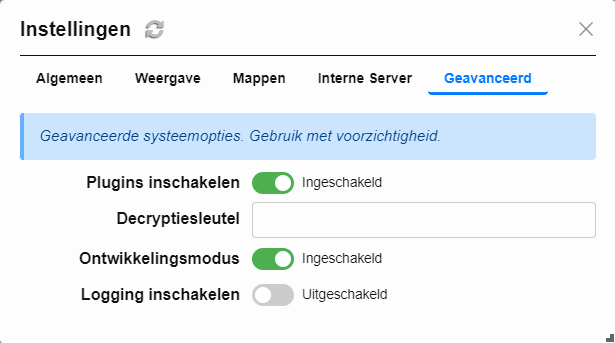
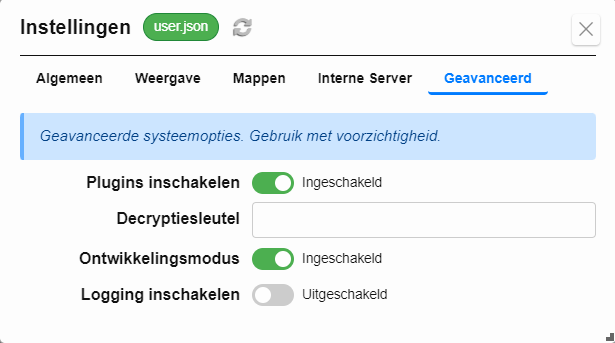
better UX for settings

Changed region(s): [[0.0309, 0.0292, 0.4325, 0.1166], [0.9886, 0.9913, 1.0, 1.0], [0.0, 0.9913, 0.0309, 1.0]]

diff --git a/assets/pilled-badge.css b/assets/pilled-badge.css
@@ -1,0 +1,114 @@
+/* Base pill – uses per-variant custom props */
+.pilled-badge {
+    display: inline-flex;
+    align-items: center;
+    gap: .35rem;
+    font-size: .85em;
+    line-height: 1.9;
+    padding: 0 .6rem;
+    border: 1px solid var(--pill-border, var(--input-border-color, #ccc));
+    border-radius: 9999px;
+    color: var(--pill-fg, var(--muted-fg, #666));
+    background: var(--pill-bg, var(--badge-bg, #f6f6f6));
+    max-width: 28em;
+    min-width: 0;
+    overflow: hidden;
+    text-overflow: ellipsis;
+    white-space: nowrap;
+}
+
+/* sizes */
+.pilled-badge--sm {
+    font-size: .75em;
+    line-height: 1.6;
+    padding: 0 .5rem;
+}
+
+.pilled-badge--lg {
+    font-size: .95em;
+    line-height: 2.0;
+    padding: 0 .8rem;
+}
+
+/* behavior */
+.pilled-badge--clickable {
+    cursor: pointer;
+    transition: box-shadow .15s, background-color .15s, border-color .15s;
+}
+
+.pilled-badge--clickable:hover {
+    box-shadow: var(--generic-shadow, 0 1px 2px rgba(0, 0, 0, .25));
+    background: var(--hover-bg, #f0f0f0);
+}
+
+/* ------- color variants (SOFT) ------- */
+.pilled-badge--neutral {
+    --pill-bg: var(--badge-bg, #f6f6f6);
+    --pill-border: var(--input-border-color, #ccc);
+    --pill-fg: var(--muted-fg, #666);
+}
+
+.pilled-badge--info {
+    --pill-bg: var(--generic-bg-info);
+    --pill-border: var(--generic-border-info);
+    --pill-fg: var(--generic-fg-info);
+}
+
+.pilled-badge--success {
+    --pill-bg: var(--generic-bg-success);
+    --pill-border: var(--generic-border-success);
+    --pill-fg: var(--generic-fg-success);
+}
+
+.pilled-badge--warn {
+    --pill-bg: var(--generic-bg-warn);
+    --pill-border: var(--generic-border-warn);
+    --pill-fg: var(--generic-fg-warn);
+}
+
+.pilled-badge--error {
+    --pill-bg: var(--generic-bg-error);
+    --pill-border: var(--generic-border-error);
+    --pill-fg: var(--generic-fg-error);
+}
+
+/* ------- outline modifier (pairs with a color) ------- */
+.pilled-badge--outline {
+    --pill-bg: transparent;
+}
+
+/* Example pairing:
+   <div class="pilled-badge pilled-badge--info pilled-badge--outline">info</div>
+   will render a blue outline with transparent bg and blue text. */
+
+/* ------- solid modifier (high-contrast fill) ------- */
+.pilled-badge--solid.pilled-badge--info {
+    --pill-bg: var(--generic-border-info);
+    --pill-fg: #fff;
+}
+
+.pilled-badge--solid.pilled-badge--success {
+    --pill-bg: var(--generic-border-success);
+    --pill-fg: #fff;
+}
+
+.pilled-badge--solid.pilled-badge--warn {
+    --pill-bg: var(--generic-border-warn);
+    --pill-fg: #000;
+}
+
+.pilled-badge--solid.pilled-badge--error {
+    --pill-bg: var(--generic-border-error);
+    --pill-fg: #fff;
+}
+
+/* optional dot */
+.pilled-badge--dot::before {
+    content: "";
+    width: .5em;
+    height: .5em;
+    border-radius: 50%;
+    background: currentColor;
+    opacity: .75;
+    flex: 0 0 auto;
+}

diff --git a/modules/modalSetup.js b/modules/modalSetup.js
@@ -60,6 +60,19 @@ export function setupProfileModal() {
 }
 
 export function setupSettingsModal() {
+  function refreshProfileBadge() {
+    const el = document.getElementById("current-profile");
+    if (!el) return;
+
+    EventBus.emit("config:profile:current", {
+      callback: (filename) => {
+        const label = filename || "user.json";
+        el.textContent = label;
+        el.title = label;
+      },
+    });
+  }
+
   const modal = setupModal("settings-modal", {
     closeBtn: "settings-close",
     escToClose: true,
@@ -99,6 +112,8 @@ export function setupSettingsModal() {
           });
           injectButton.appendChild(btn);
         }
+
+        refreshProfileBadge();
 
         const ok = await renderSettings();
         if (!ok) {

diff --git a/assets/dark-theme.css b/assets/dark-theme.css
@@ -8,6 +8,8 @@
   --input-icon-bg: #3f3f3f;
   --accent-color: #4dabf7;
   --hover-bg: #2a2a2a;
+  --badge-bg: #2a2a2a;
+  --muted-fg: #bbb;
 
   /* ───── Range Slider ───── */
   --range-track-bg: #bdbdbd;
@@ -29,7 +31,8 @@
   --status-error-color: #ff6b6b;
 
   /* ───── Generic Shadows ───── */
-  --generic-box-shadow: 0 2px 4px rgba(255, 255, 255, 0.1) --generic-shadow: 0 1px 2px rgba(255, 255, 255, 0.15);
+  --generic-box-shadow: 0 2px 4px rgba(255, 255, 255, 0.1);
+  --generic-shadow: 0 1px 2px rgba(255, 255, 255, 0.15);
   --generic-shadow-hover: 0 2px 4px rgba(255, 255, 255, 0.25);
   --generic-shadow-active: inset 0 1px 2px rgba(255, 255, 255, 0.3);
 

diff --git a/index.html b/index.html
@@ -18,6 +18,7 @@
 
     <!-- Core Styles -->
     <link rel="stylesheet" href="assets/layout.css" />
+    <link rel="stylesheet" href="assets/pilled-badge.css" />
     <link rel="stylesheet" href="assets/switch.css" />
     <link rel="stylesheet" href="assets/tabs.css" />
     <link rel="stylesheet" href="assets/toast.css" />
@@ -136,6 +137,10 @@
       <div class="modal-header">
         <div class="modal-title-row">
           <h2 data-i18n="standard.settings">Settings</h2>
+          <div
+            id="current-profile"
+            class="pilled-badge pilled-badge--success"
+          ></div>
           <div id="settings-inject-button"></div>
         </div>
       </div>

diff --git a/assets/theme.css b/assets/theme.css
@@ -8,6 +8,8 @@
   --input-icon-bg: #1d1d1d;
   --accent-color: #007bff;
   --hover-bg: #f0f0f0;
+  --badge-bg: #f6f6f6;
+  --muted-fg: #666;
 
   /* ───── Range Slider ───── */
   --range-track-height: 6px;
@@ -32,7 +34,8 @@
   --status-error-color: #e53935;
 
   /* ───── Generic Shadows ───── */
-  --generic-box-shadow: 0 2px 4px rgba(0, 0, 0, 0.1) --generic-shadow: 0 1px 2px rgba(0, 0, 0, 0.25);
+  --generic-box-shadow: 0 2px 4px rgba(0, 0, 0, 0.1);
+  --generic-shadow: 0 1px 2px rgba(0, 0, 0, 0.25);
   --generic-shadow-hover: 0 2px 4px rgba(0, 0, 0, 0.35);
   --generic-shadow-active: inset 0 1px 2px rgba(0, 0, 0, 0.4);
 
